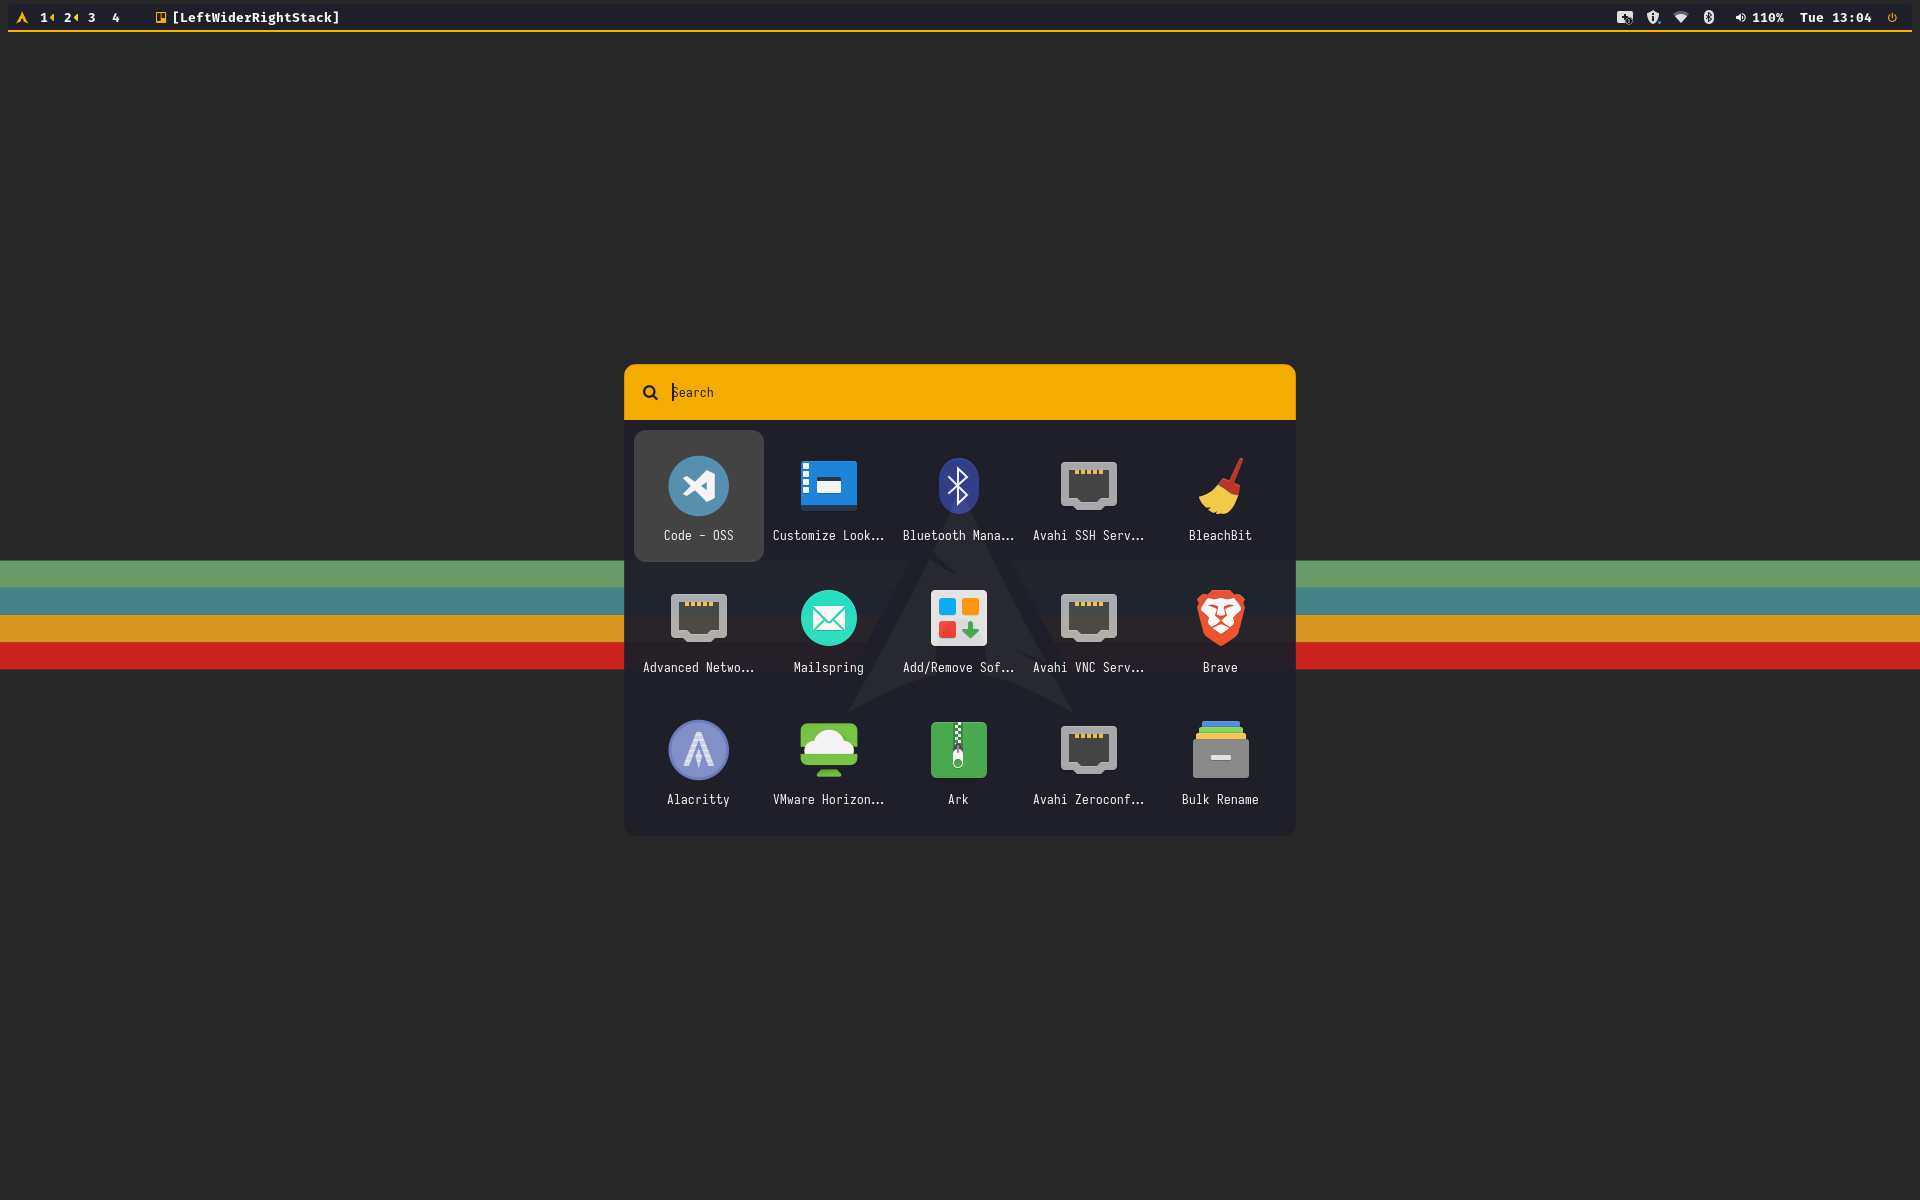
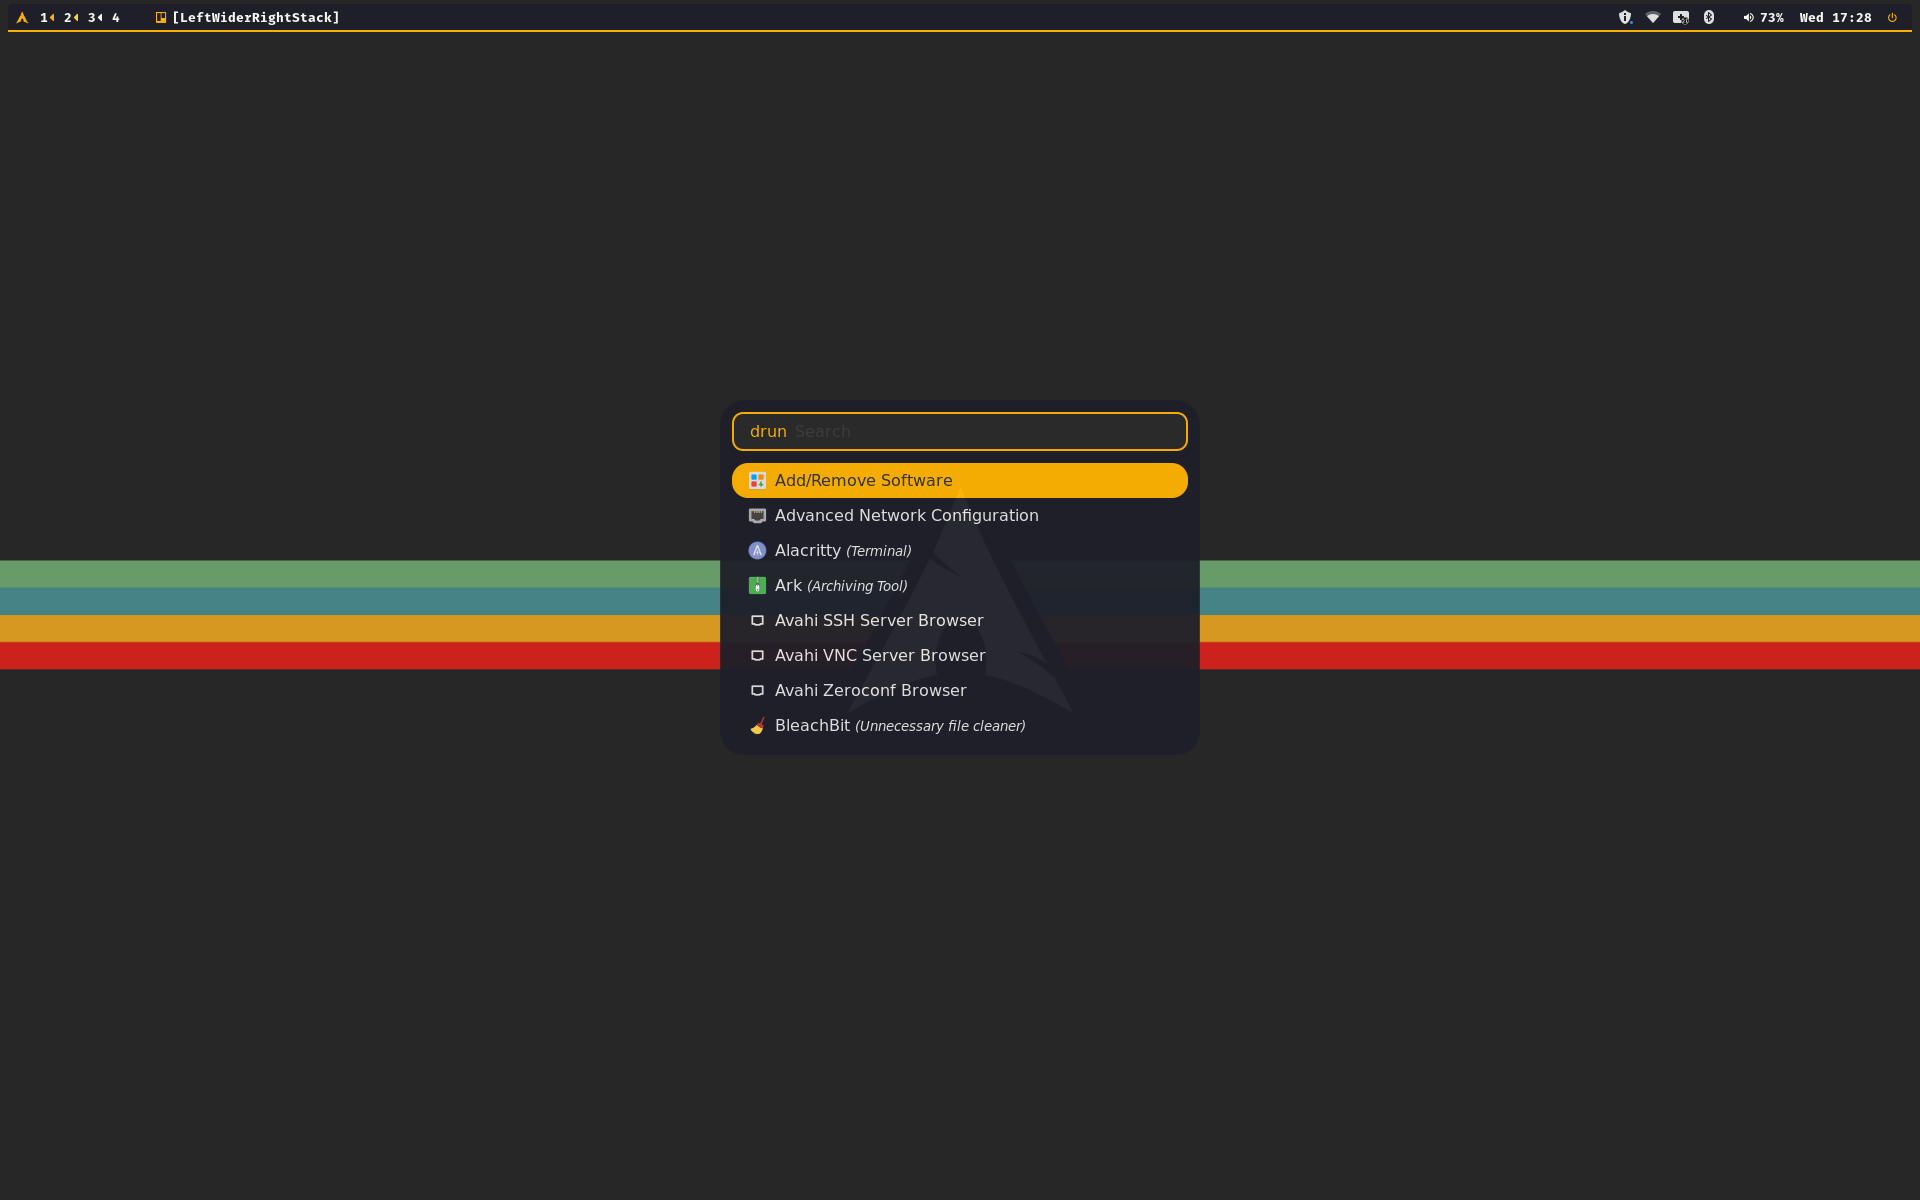
new rofi application launcher

Changed region(s): [[0.3125, 0.2775, 0.6875, 0.6783], [0.8438, 0.0, 0.875, 0.0308]]

diff --git a/README.md b/README.md
@@ -17,6 +17,9 @@ Amber was done in a couple of days without any prior experience on LeftWM themin
 
 # Changelog
 
+## v0.1.1
+- Removed dependency from rofi-themes for applcation launcher
+
 ## v0.1
 - Dual monitor support
 - Amber color scheme
@@ -89,7 +92,10 @@ $MOD + Shift + r
 ```
 **!!! IMPORTANT !!!**
 
-Polybar is configured with an application launcher (left side) and a powermenu (right side) that requires both rofi and rofi-themes.
+Polybar is configured with an application launcher (left side) and a powermenu (right side). Both require **rofi** to be installed on your system, if you want to use them.
+
+Powermenu is currently still based on **rofi-themes**, so you would beed those too.
+
 To install rofi themes:
 ```
 git clone --depth=1 https://github.com/adi1090x/rofi.git
@@ -106,8 +112,6 @@ Optionally replace the original files in ~/.config/rofi with the content of the 
 ## rofi/applets/styles/colors.rasi
 - Set to material-dark/amber.rasi color scheme
 
-## rofi/launchers/colorful/launcher.sh
-- Color changes
 
 
 # Configuration
@@ -207,3 +211,6 @@ And some inspiration / patches taken from these wonderful sources:
 
 Wallpapers by [Atlas-ark](https://www.reddit.com/user/atlas-ark/). I am not aware of any kind of licence, but if you can buy him a beer :)
 
+Application launcher is based on the [rofi-themes-collection](https://github.com/lr-tech/rofi-themes-collection) by [LR Tech](https://github.com/lr-tech) covered by a GNU General Public License v3.0
+
+Ping me if I am messing up something here :)
